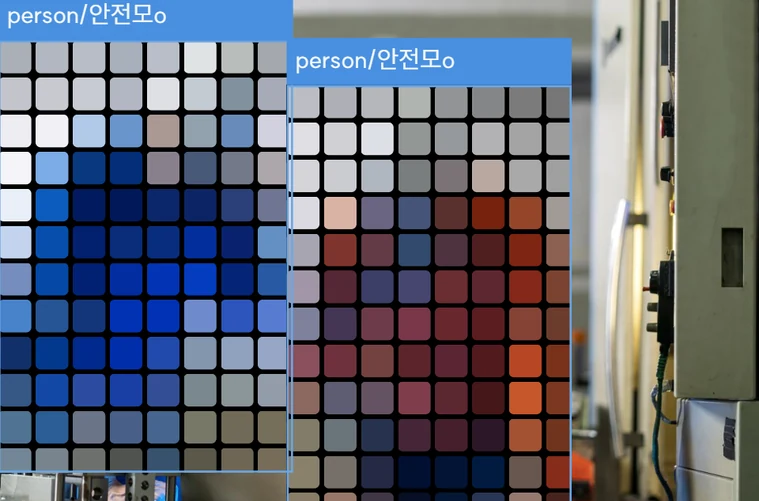
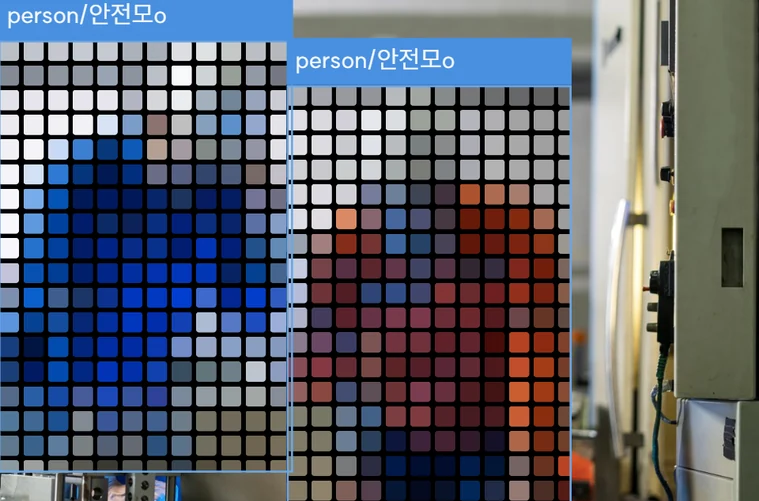
v2.2 팝오버 검출 그림 — 격자 칸 18 → 12

diff --git a/assets/js/monitor.js b/assets/js/monitor.js
@@ -662,7 +662,7 @@
     /*
      * v2.2 — 사람이 찍힌 검출 캡처(ppe) 자리에 비식별화가 적용된 현장 그림을 쓴다. 실제로는 서버가 이미 가린 영상을 보낸다는 뜻이다.
      * 10/19 디자이너 — 줄무늬(alert-live-deid.webp)에서 격자 모자이크로 바꿨다. 비교판 screens/deid-lab.html 의
-     * "격자 모자이크 · 감지 라벨" 을 팝오버 폭(370)에서 칸 18 · 틈 2 · 모서리 16% 로 뽑은 그림이다.
+     * "격자 모자이크 · 감지 라벨" 을 팝오버 폭(370)에서 칸 12(10/19 디자이너 — 팝오버에선 18 보다 잘게) · 틈 2 · 모서리 16% 로 뽑은 그림이다.
      */
     var useDeid = body.classList.contains("v2-2");
     function liveSrc(a) {

diff --git a/screens/main-v2-2.html b/screens/main-v2-2.html
@@ -1737,7 +1737,7 @@
 <script src="../assets/js/map-model.js?v=0f88c871"></script>
 <script src="../assets/js/map.js?v=416b452d"></script>
 <script src="../assets/js/robot-stage.js?v=f154b57d"></script>
-<script src="../assets/js/monitor.js?v=0f2a8f21"></script>
+<script src="../assets/js/monitor.js?v=92b38244"></script>
 <script src="../assets/js/mission-scope.js?v=026b4b54"></script>
 <script src="../assets/js/delta-pulse.js?v=2d0afced"></script>
 <script src="../assets/js/delta-chat.js?v=54fb0c47"></script>

diff --git a/screens/sian-3.html b/screens/sian-3.html
@@ -1688,7 +1688,7 @@
 <script src="../assets/js/map-model.js?v=0f88c871"></script>
 <script src="../assets/js/map.js?v=416b452d"></script>
 <script src="../assets/js/robot-stage.js?v=f154b57d"></script>
-<script src="../assets/js/monitor.js?v=0f2a8f21"></script>
+<script src="../assets/js/monitor.js?v=92b38244"></script>
 <script src="../assets/js/delta-v3.js?v=6842c15b"></script>
 <script src="../assets/js/grid-overlay.js?v=164e4f2a"></script>
 </body>

diff --git a/screens/dashboard-home.html b/screens/dashboard-home.html
@@ -1670,7 +1670,7 @@
 <script src="../assets/js/map-model.js?v=0f88c871"></script>
 <script src="../assets/js/map.js?v=416b452d"></script>
 <script src="../assets/js/robot-stage.js?v=f154b57d"></script>
-<script src="../assets/js/monitor.js?v=0f2a8f21"></script>
+<script src="../assets/js/monitor.js?v=92b38244"></script>
 <script src="../assets/js/grid-overlay.js?v=164e4f2a"></script>
 </body>
 </html>
